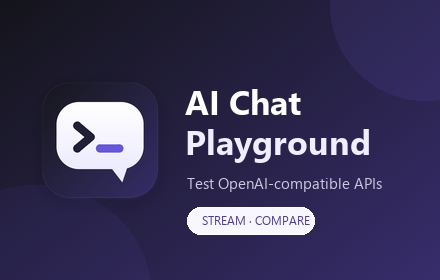
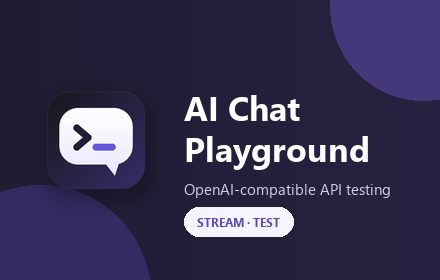
Update store assets and README badge

diff --git a/README.md b/README.md
@@ -1,6 +1,6 @@
 # AI Chat Playground
 
-[![Available in the Chrome Web Store](https://img.shields.io/badge/Available%20in-Chrome%20Web%20Store-4285F4?logo=googlechrome&logoColor=white)](https://chromewebstore.google.com/detail/ai-chat-playground/caicodmkoecekhdmoehoikilbkodbcel)
+[![Available in the Chrome Web Store](store-assets/chrome-web-store.png)](https://chromewebstore.google.com/detail/ai-chat-playground/caicodmkoecekhdmoehoikilbkodbcel)
 
 [English](README.en.md)
 

diff --git a/README.en.md b/README.en.md
@@ -1,6 +1,6 @@
 # AI Chat Playground
 
-[![Available in the Chrome Web Store](https://img.shields.io/badge/Available%20in-Chrome%20Web%20Store-4285F4?logo=googlechrome&logoColor=white)](https://chromewebstore.google.com/detail/ai-chat-playground/caicodmkoecekhdmoehoikilbkodbcel)
+[![Available in the Chrome Web Store](store-assets/chrome-web-store.png)](https://chromewebstore.google.com/detail/ai-chat-playground/caicodmkoecekhdmoehoikilbkodbcel)
 
 [中文版](README.md)
 
